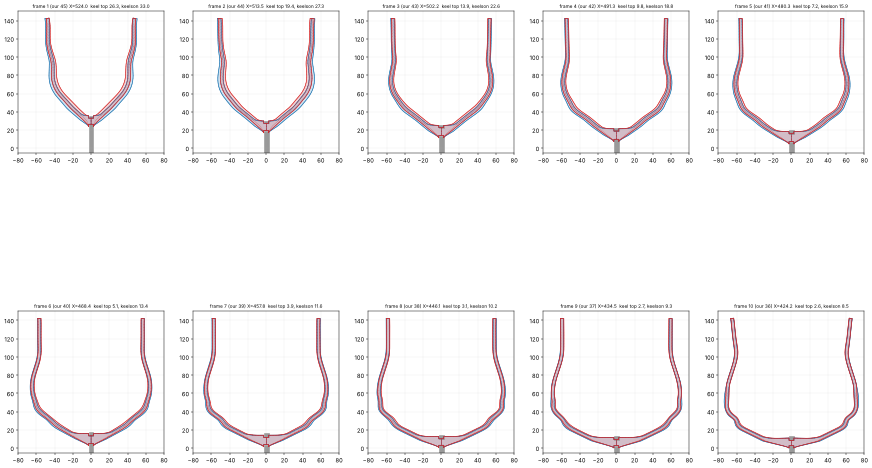
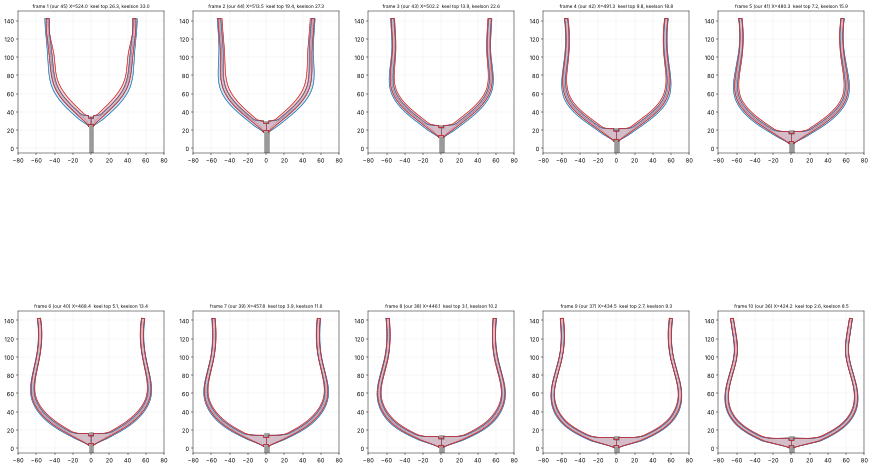
Frames 1-10 on keel: smoothing spline for the hull line
Claude-Session: https://claude.ai/code/session_017HV2YHL4JdRTKuYXk76aAy

diff --git a/royal_caroline/py/frames_on_keel_2d.py b/royal_caroline/py/frames_on_keel_2d.py
@@ -40,7 +40,8 @@ def hull_points(i,X):
     top=[(np.interp(z,old[:,1],old[:,0])+sh*max(0,1-(z-zt)/40),z) for z in (zt+12,zt+26,142)]
     P=np.array([foot]+pts+top); P=P[np.argsort(P[:,1])]; return P
 def hull_line(i,X):
-    P=hull_points(i,X); tk,u=splprep(P.T,k=3,s=0); y,z=splev(np.linspace(0,1,600),tk); return np.c_[y,z]
+    P=hull_points(i,X); tk,u=splprep(P.T,k=3,s=len(P)*0.35); y,z=splev(np.linspace(0,1,600),tk)       # smoothing spline: the points come from different sources (waterlines, stations, plan outline) and carry ~0.5 mm noise
+    y=np.where(np.arange(600)<3,y,y); return np.c_[y,z]
 def keel_levels(X):
     g=UB.intersection(LineString([(X,-30),(X,200)])); sg=sorted((l.bounds[1],l.bounds[3]) for l in getattr(g,'geoms',[g]))
     sg=[s for s in sg if s[1]-s[0]>0.05]; mrg=[list(sg[0])]
